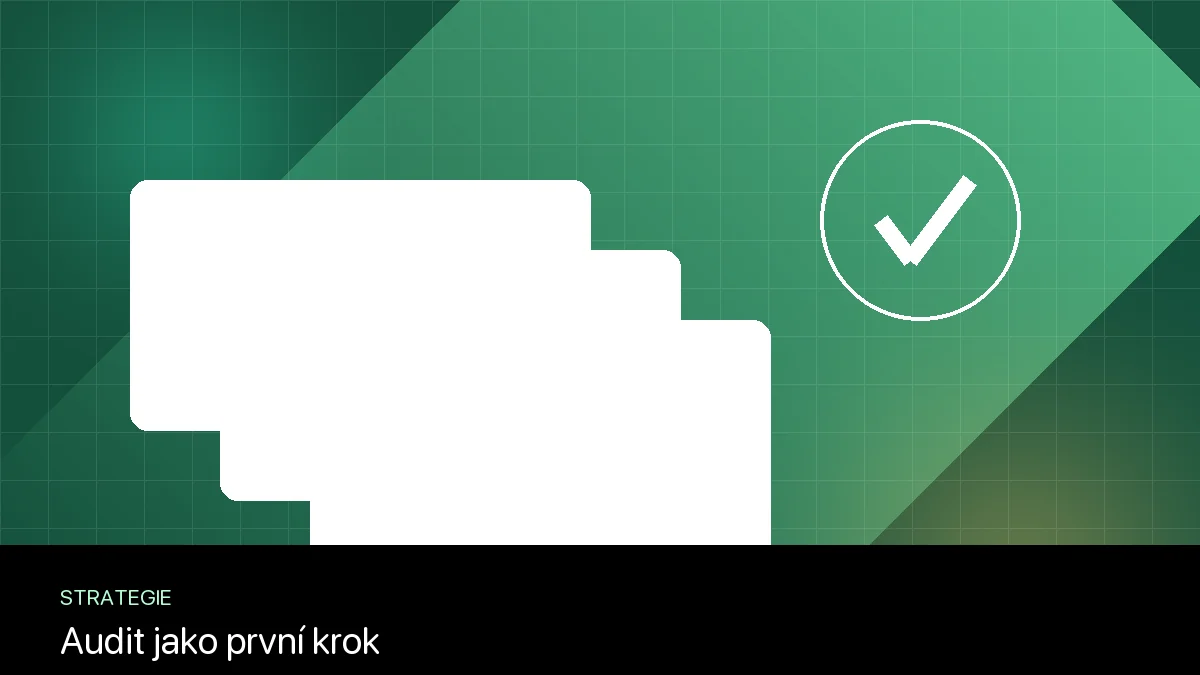
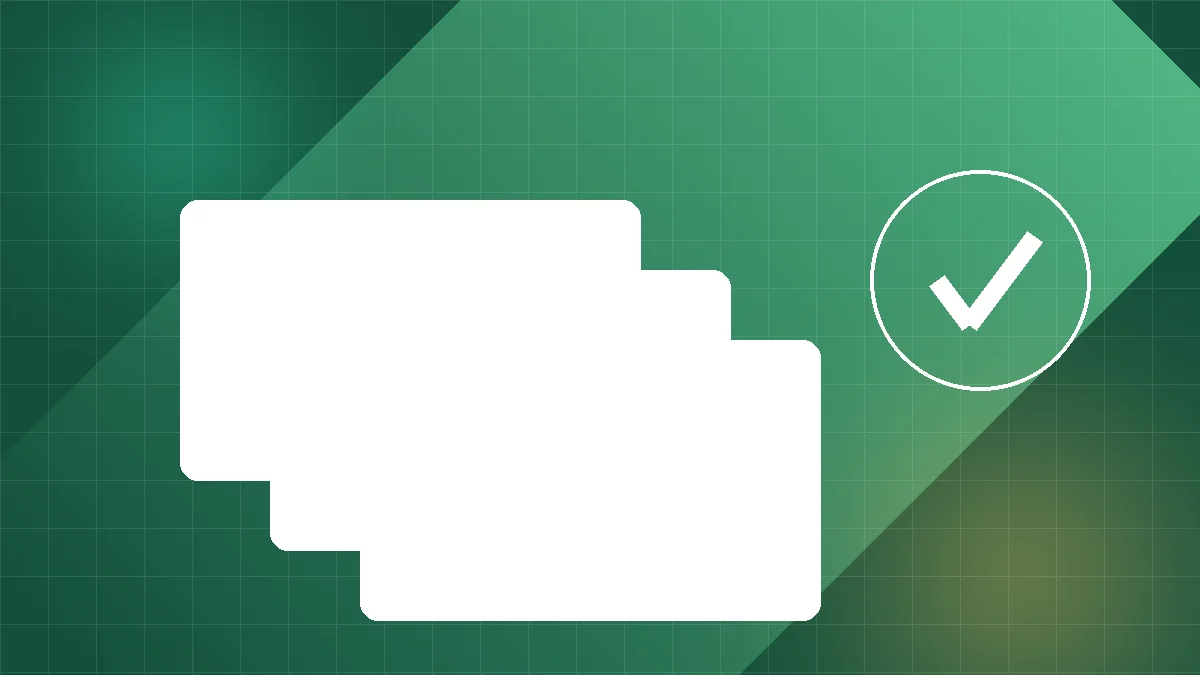
Mobile FABs, blog images without text, Klimahome case retitled
Floating actions (new FloatingActions component):
- Sticky right-edge "Poptejte nás zdarma" tab — gradient pill anchored
  vertically center on desktop with a soft pulsing glow, collapses to
  icon-only chat-bubble button on phones (top:auto;bottom:88px)
- Bottom-right scroll-to-top button — round, dark glass with orange
  border, appears once the user has scrolled past 480px
- Both auto-hide while LeadModal is open (watches body overflow style)

Blog thumbnails:
- Regenerated all three without the bottom caption strip — the
  "AI · CASE STUDY" / "STRATEGIE" / "PŘÍPADOVKA" overlay clashed with
  the on-card category pill on mobile. Visual graphic stays the same:
  big "C" + sparkles for AI, stacked dashboard cards + checkmark for
  Audit, bigger house silhouette + rising chart with arrow for the
  Klimahome case (≈14 KB each WebP)

Klimahome case content:
- Retitled to "Jak Klimahome zvyšuje příliv poptávek"
- Description rewritten around the actual playbook: unified strategy,
  clear goals, new landing pages, ongoing SEO work and content quality

diff --git a/app/styles/v2-extras.css b/app/styles/v2-extras.css
@@ -420,3 +420,76 @@
   .astat-mini{padding:18px 18px 16px}
   .astat-mini-ico{width:32px;height:32px;margin-bottom:10px}
 }
+
+/* ============ Floating actions: side CTA + scroll-to-top ============ */
+
+/* Vertical sticky CTA tab on the right edge — visible all sizes.
+   On desktop the text rests collapsed and slides out on hover.
+   On mobile it's permanently visible as an icon-only pill. */
+.fab-side{
+  position:fixed;right:0;top:55%;z-index:90;
+  display:inline-flex;align-items:center;gap:8px;
+  background:linear-gradient(135deg,var(--accent),var(--accent-2));
+  color:#fff;
+  border:0;border-radius:18px 0 0 18px;
+  padding:14px 16px 14px 18px;
+  font-family:inherit;font-weight:700;font-size:13px;
+  letter-spacing:.02em;
+  cursor:pointer;
+  box-shadow:0 14px 32px -8px rgba(255,138,77,.55),0 8px 18px -8px rgba(0,0,0,.35);
+  transform:translateY(-50%);
+  transition:transform .35s var(--ease-out),box-shadow .25s var(--ease-out),right .35s var(--ease-out);
+  overflow:hidden;
+  writing-mode:horizontal-tb;
+}
+.fab-side:hover{transform:translateY(-50%) translateX(-2px);box-shadow:0 18px 40px -10px rgba(255,138,77,.7),0 10px 22px -8px rgba(0,0,0,.45)}
+.fab-side:focus-visible{outline:3px solid rgba(255,255,255,.5);outline-offset:2px}
+.fab-side-text{display:inline-flex;align-items:center;gap:8px;white-space:nowrap}
+.fab-side-pulse{
+  position:absolute;inset:-2px;border-radius:inherit;pointer-events:none;
+  background:linear-gradient(135deg,var(--accent),var(--accent-2));
+  opacity:.55;
+  animation:fabPulse 2.4s ease-in-out infinite;
+  z-index:-1;
+}
+@keyframes fabPulse{
+  0%,100%{transform:scale(1);opacity:.4}
+  50%{transform:scale(1.08);opacity:0}
+}
+
+/* Mobile: collapse to icon-only chevron-pill on the side.
+   Tap target stays 44×44 minimum. */
+@media(max-width:680px){
+  .fab-side{
+    padding:14px 14px 14px 16px;border-radius:16px 0 0 16px;
+    top:auto;bottom:88px;transform:none;
+  }
+  .fab-side:hover{transform:translateX(-2px)}
+  .fab-side-text span{display:none}
+  .fab-side-text{gap:0}
+  .fab-side-text svg{width:18px;height:18px}
+}
+
+/* Scroll-to-top */
+.fab-top{
+  position:fixed;right:18px;bottom:18px;z-index:90;
+  width:44px;height:44px;
+  display:inline-flex;align-items:center;justify-content:center;
+  background:rgba(15,18,24,.85);
+  backdrop-filter:blur(14px);-webkit-backdrop-filter:blur(14px);
+  color:#fff;
+  border:1px solid rgba(255,138,77,.35);
+  border-radius:9999px;
+  cursor:pointer;font-family:inherit;
+  box-shadow:0 8px 22px -6px rgba(0,0,0,.45),0 4px 12px -4px rgba(255,138,77,.3);
+  opacity:0;visibility:hidden;transform:translateY(8px);
+  transition:opacity .25s,visibility .25s,transform .25s var(--ease-out),background .2s,border-color .2s;
+}
+.fab-top.is-visible{opacity:1;visibility:visible;transform:translateY(0)}
+.fab-top:hover{background:var(--accent);border-color:var(--accent)}
+.fab-top:focus-visible{outline:3px solid rgba(255,138,77,.6);outline-offset:2px}
+
+/* On phones, push scroll-to-top a bit higher to clear the side fab. */
+@media(max-width:680px){
+  .fab-top{bottom:24px;right:14px;width:42px;height:42px}
+}

diff --git a/components/v2/FloatingActions.tsx b/components/v2/FloatingActions.tsx
@@ -1,0 +1,61 @@
+"use client"
+import { useEffect, useState } from "react"
+
+/** Two persistent floating actions:
+ *  1) Vertical "Poptejte nás" tab anchored to the right edge — opens LeadModal
+ *  2) Scroll-to-top circle in the bottom-right corner, appears after the user
+ *     scrolls past the hero. Mobile-friendly hit areas (≥44px), keyboard-
+ *     focusable, hides itself when the LeadModal is open. */
+export function FloatingActions() {
+  const [showTop, setShowTop] = useState(false)
+  const [modalOpen, setModalOpen] = useState(false)
+
+  useEffect(() => {
+    const onScroll = () => setShowTop(window.scrollY > 480)
+    onScroll()
+    window.addEventListener("scroll", onScroll, { passive: true })
+    return () => window.removeEventListener("scroll", onScroll)
+  }, [])
+
+  // Hide our buttons when the LeadModal is open (it freezes body scroll).
+  useEffect(() => {
+    const observer = new MutationObserver(() => {
+      setModalOpen(getComputedStyle(document.body).overflow === "hidden")
+    })
+    observer.observe(document.body, { attributes: true, attributeFilter: ["style"] })
+    return () => observer.disconnect()
+  }, [])
+
+  if (modalOpen) return null
+
+  return (
+    <>
+      <button
+        type="button"
+        className="fab-side"
+        data-lead="audit"
+        aria-label="Poptejte nás"
+      >
+        <span className="fab-side-pulse" aria-hidden="true" />
+        <span className="fab-side-text">
+          <svg width="14" height="14" viewBox="0 0 24 24" fill="none" stroke="currentColor" strokeWidth="2.5" strokeLinecap="round" strokeLinejoin="round" aria-hidden="true">
+            <path d="M21 11.5a8.38 8.38 0 0 1-.9 3.8 8.5 8.5 0 0 1-7.6 4.7 8.38 8.38 0 0 1-3.8-.9L3 21l1.9-5.7a8.38 8.38 0 0 1-.9-3.8 8.5 8.5 0 0 1 4.7-7.6 8.38 8.38 0 0 1 3.8-.9h.5a8.48 8.48 0 0 1 8 8v.5z"/>
+          </svg>
+          <span>Poptejte nás zdarma</span>
+        </span>
+      </button>
+
+      <button
+        type="button"
+        className={`fab-top ${showTop ? "is-visible" : ""}`}
+        onClick={() => window.scrollTo({ top: 0, behavior: "smooth" })}
+        aria-label="Nahoru"
+      >
+        <svg width="20" height="20" viewBox="0 0 24 24" fill="none" stroke="currentColor" strokeWidth="2.5" strokeLinecap="round" strokeLinejoin="round" aria-hidden="true">
+          <line x1="12" y1="19" x2="12" y2="5" />
+          <polyline points="5 12 12 5 19 12" />
+        </svg>
+      </button>
+    </>
+  )
+}

diff --git a/components/v2/Blog.tsx b/components/v2/Blog.tsx
@@ -39,8 +39,8 @@ const POSTS: Post[] = [
     cat: "Případovka",
     date: "2. 4. 2026",
     read: "5 min",
-    title: "Klimahome — od nuly k stabilnímu přílivu poptávek",
-    desc: "Jak jsme za rok postavili web, výkonnostní strategii a vyladili příliv poptávek pro instalátora tepelných čerpadel.",
+    title: "Jak Klimahome zvyšuje příliv poptávek",
+    desc: "Jednotná strategie, jasné cíle, nové landing pages a soustavná práce na SEO i kvalitě obsahu webu — krok za krokem ukazujeme, jak se změnily reálné výsledky.",
     palette: ["oklch(0.72 0.14 230)", "oklch(0.85 0.10 200)"],
     image: "/eccdigital-staging/images/blog/klimahome-pripadovka.webp",
   },

diff --git a/app/page.tsx b/app/page.tsx
@@ -9,6 +9,7 @@ import { CTA } from "@/components/v2/CTA"
 import { Footer } from "@/components/v2/Footer"
 import { LeadModal } from "@/components/v2/LeadModal"
 import { CookieBar } from "@/components/v2/CookieBar"
+import { FloatingActions } from "@/components/v2/FloatingActions"
 
 export default function HomePage() {
   return (
@@ -29,6 +30,7 @@ export default function HomePage() {
       <CTA />
       <Footer />
       <LeadModal />
+      <FloatingActions />
       <CookieBar />
     </>
   )
